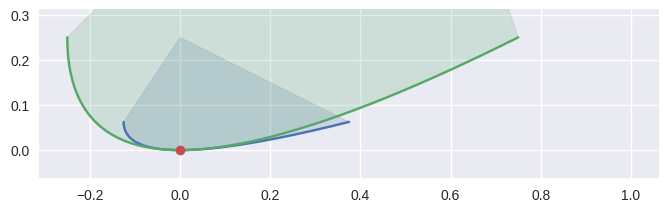
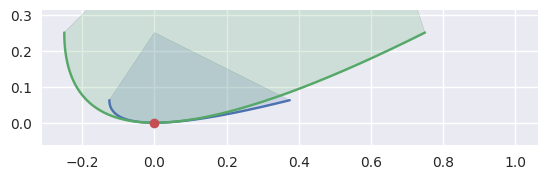
Fixing some breakages in `nox -s docs_images`.
In particular

- handling non-CurvedPolygon intersections in
  `make_surface_surface_images.py`
- reversing the edge orientation in `classify-intersection6`
  so that the surfaces are valid (I didn't realize they were
  oriented negatively, but the test case still holds)
- adding the image for a surface-surface intersection recently added
  (it's a bit moot since the intersection is just the reverse of
  an existing one)

diff --git a/tests/functional/make_surface_surface_images.py b/tests/functional/make_surface_surface_images.py
@@ -25,22 +25,29 @@ _, INTERSECTIONS = utils.surface_intersections_info()
 
 
 def make_curved_polygon(surface1, surface2, curved_polygon_info):
-    base_edges = (
-        surface1._get_edges(),
-        surface2._get_edges(),
-    )
+    if isinstance(curved_polygon_info, utils.CurvedPolygonInfo):
+        base_edges = (
+            surface1._get_edges(),
+            surface2._get_edges(),
+        )
 
-    edge_pairs = curved_polygon_info.edge_pairs
-    start_params = curved_polygon_info.start_params
-    end_params = curved_polygon_info.end_params
-    info = six.moves.zip(edge_pairs, start_params, end_params)
-    edges = []
-    for edge_pair, start_param, end_param in info:
-        surf_index, edge_index = edge_pair
-        base_edge = base_edges[surf_index][edge_index]
-        edges.append(base_edge.specialize(start_param, end_param))
+        edge_pairs = curved_polygon_info.edge_pairs
+        start_params = curved_polygon_info.start_params
+        end_params = curved_polygon_info.end_params
+        info = six.moves.zip(edge_pairs, start_params, end_params)
+        edges = []
+        for edge_pair, start_param, end_param in info:
+            surf_index, edge_index = edge_pair
+            base_edge = base_edges[surf_index][edge_index]
+            edges.append(base_edge.specialize(start_param, end_param))
 
-    return bezier.CurvedPolygon(*edges)
+        return bezier.CurvedPolygon(*edges)
+    else:
+        assert isinstance(curved_polygon_info, utils.SurfaceIntersectionInfo)
+        if curved_polygon_info.first:
+            return surface1
+        else:
+            return surface2
 
 
 def make_plot(intersection_info, save_plot):

diff --git a/src/bezier/_surface_helpers.py b/src/bezier/_surface_helpers.py
@@ -1513,28 +1513,28 @@ def classify_intersection(intersection, edges1, edges2):
        :options: +NORMALIZE_WHITESPACE
 
        >>> nodes1 = np.asfortranarray([
-       ...     [ 0.375,  0.0625],
-       ...     [-0.125, -0.0625],
        ...     [-0.125,  0.0625],
+       ...     [-0.125, -0.0625],
+       ...     [ 0.375,  0.0625],
        ... ])
        >>> curve1 = bezier.Curve(nodes1, degree=2)
        >>> nodes2 = np.asfortranarray([
-       ...     [ 0.75,  0.25],
-       ...     [-0.25, -0.25],
        ...     [-0.25,  0.25],
+       ...     [-0.25, -0.25],
+       ...     [ 0.75,  0.25],
        ... ])
        >>> curve2 = bezier.Curve(nodes2, degree=2)
        >>> s, t = 0.5, 0.5
        >>> curve1.evaluate(s) == curve2.evaluate(t)
        array([[ True, True]], dtype=bool)
        >>> hodograph(curve1, s)
-       array([[-0.5, 0. ]])
+       array([[ 0.5, 0. ]])
        >>> hodograph(curve2, t)
-       array([[-1., 0.]])
+       array([[ 1., 0.]])
        >>> curvature(curve1, s)
-       -2.0
+       2.0
        >>> curvature(curve2, t)
-       -2.0
+       2.0
        >>> intersection = Intersection(0, s, 0, t)
        >>> edges1 = (curve1, None, None)
        >>> edges2 = (curve2, None, None)

diff --git a/docs/make_images.py b/docs/make_images.py
@@ -1001,19 +1001,19 @@ def classify_intersection6(s, curve1, curve2):
         return
 
     surface1 = bezier.Surface.from_nodes(np.asfortranarray([
-        [0.375, 0.0625],
-        [-0.125, -0.0625],
         [-0.125, 0.0625],
-        [0.1875, 0.15625],
+        [-0.125, -0.0625],
+        [0.375, 0.0625],
         [-0.0625, 0.15625],
+        [0.1875, 0.15625],
         [0.0, 0.25],
     ]))
     surface2 = bezier.Surface.from_nodes(np.asfortranarray([
-        [0.75, 0.25],
-        [-0.25, -0.25],
         [-0.25, 0.25],
-        [0.625, 0.625],
+        [-0.25, -0.25],
+        [0.75, 0.25],
         [0.125, 0.625],
+        [0.625, 0.625],
         [0.5, 1.0],
     ]))
 
